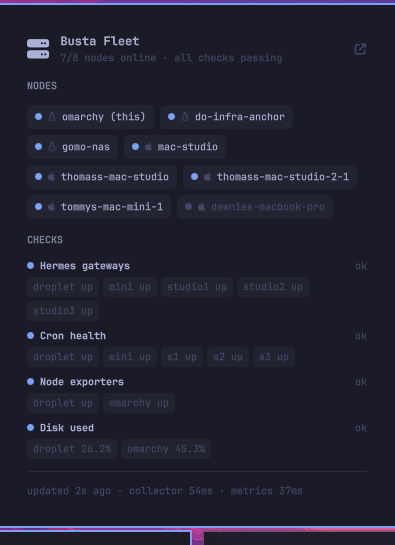
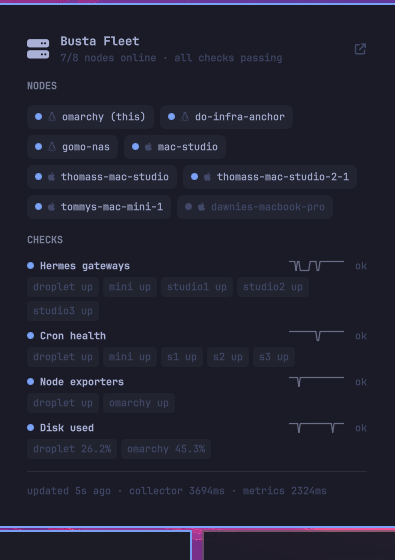
v1.1.0: sentinel notifications + sparkline trends
Severity-transition desktop notifications (flap-guarded, restart-safe,
names exact offenders — drilled live end-to-end). Per-check sparklines
from concurrent range queries, folded worst-direction across series;
history failures degrade to no sparkline, never to a failed check.
28 Python + 9 JS tests.

Claude-Session: https://claude.ai/code/session_01KHbyHbH4ua8rHthD24zcJn

diff --git a/Panel.qml b/Panel.qml
@@ -39,6 +39,7 @@ Panel {
 
   readonly property int refreshIntervalSec: intSetting("refreshIntervalSec", 60, 15, 3600)
   readonly property bool showLabel: setting("showLabel", true) === true
+  readonly property bool notifyOnChange: setting("notifyOnChange", true) === true
   readonly property bool stale: Model.isStale(report ? report.generatedAt : 0, nowMs, refreshIntervalSec)
 
   readonly property string severity: {
@@ -116,6 +117,37 @@ Panel {
     if (peer && peer.ip) Quickshell.execDetached(["wl-copy", String(peer.ip)])
   }
 
+  // ---- Sentinel: desktop notification on severity transitions ------------
+
+  // "" = no report seen yet: the first report sets the baseline silently, so
+  // a shell restart during an ongoing incident doesn't re-announce it.
+  property string lastNotifiedSeverity: ""
+  property double lastNotifyMs: 0
+
+  function maybeNotify() {
+    if (!summary) return
+    var sev = summary.severity
+    if (lastNotifiedSeverity === "") { lastNotifiedSeverity = sev; return }
+    if (sev === lastNotifiedSeverity) return
+    var previous = lastNotifiedSeverity
+    lastNotifiedSeverity = sev
+    if (!notifyOnChange) return
+    // Flap guard: state always tracks truth above, but at most one ping per
+    // five minutes — a bouncing check can't spam the desktop.
+    var now = Date.now()
+    if (now - lastNotifyMs < 300000) return
+    lastNotifyMs = now
+    var urgency = sev === "crit" ? "critical" : sev === "ok" ? "low" : "normal"
+    var headline = sev === "ok"
+      ? fleetName + ": recovered"
+      : fleetName + ": " + sev.toUpperCase()
+    var body = sev === "ok"
+      ? "all checks passing (was " + previous + ")"
+      : Model.issueSummary(report, 180)
+    Quickshell.execDetached(["omarchy-notification-send", "-u", urgency,
+                             "-g", barGlyph, headline, body])
+  }
+
   // ---- Panel plumbing (weather-pattern popout contract) -----------------
 
   function open() {
@@ -177,6 +209,7 @@ Panel {
           root.report = doc
           root.collectorError = ""
           root.nowMs = Date.now()
+          root.maybeNotify()
         } catch (e) {
           root.collectorError = "collector output unparsable"
         }
@@ -466,6 +499,7 @@ Panel {
                   }
 
                   Text {
+                    id: checkStatus
                     text: modelData.error ? modelData.error
                       : (modelData.severity === "ok" ? "ok" : modelData.severity)
                     color: root.severityColor(modelData.severity, Color.muted)
@@ -473,6 +507,67 @@ Panel {
                     font.pixelSize: Style.font.caption
                     anchors.right: parent.right
                     anchors.verticalCenter: parent.verticalCenter
+                  }
+
+                  // Worst-direction trend over the configured history span.
+                  Canvas {
+                    id: spark
+                    visible: (modelData.history || []).length >= 2
+                    width: Style.space(56)
+                    height: Style.space(12)
+                    anchors.right: checkStatus.left
+                    anchors.rightMargin: Style.space(10)
+                    anchors.verticalCenter: parent.verticalCenter
+
+                    antialiasing: true
+
+                    readonly property var trace: modelData.history || []
+                    readonly property color lineColor: root.tinted(
+                      root.severityColor(modelData.severity, Color.popups.text),
+                      modelData.severity === "ok" ? 0.55 : 0.9)
+
+                    // A Canvas that is created hidden (or before its backing
+                    // store exists) drops requestPaint silently — every
+                    // trigger that can make it drawable must re-request.
+                    onTraceChanged: requestPaint()
+                    onLineColorChanged: requestPaint()
+                    onVisibleChanged: if (visible) requestPaint()
+                    onAvailableChanged: if (available) requestPaint()
+                    onWidthChanged: requestPaint()
+                    onHeightChanged: requestPaint()
+
+                    onPaint: {
+                      var ctx = getContext("2d")
+                      ctx.clearRect(0, 0, width, height)
+                      var data = trace
+                      if (data.length < 2) return
+                      var lo = Infinity, hi = -Infinity
+                      for (var i = 0; i < data.length; i++) {
+                        if (data[i] === null) continue
+                        if (data[i] < lo) lo = data[i]
+                        if (data[i] > hi) hi = data[i]
+                      }
+                      if (lo === Infinity) return
+                      // A flat trace still draws: pad the range so the line
+                      // sits mid-height instead of dividing by zero.
+                      if (hi - lo < 1e-9) { hi += 1; lo -= 1 }
+                      var pad = 1.5
+                      ctx.strokeStyle = lineColor
+                      ctx.lineWidth = 1.2
+                      ctx.lineJoin = "round"
+                      ctx.beginPath()
+                      var started = false
+                      for (var j = 0; j < data.length; j++) {
+                        if (data[j] === null) { started = false; continue }
+                        var x = data.length === 1 ? 0
+                          : j / (data.length - 1) * (width - 1)
+                        var y = pad + (1 - (data[j] - lo) / (hi - lo))
+                          * (height - pad * 2)
+                        if (!started) { ctx.moveTo(x, y); started = true }
+                        else ctx.lineTo(x, y)
+                      }
+                      ctx.stroke()
+                    }
                   }
                 }
 

diff --git a/Model.js b/Model.js
@@ -59,6 +59,34 @@ function reportErrors(report) {
   return out;
 }
 
+// Compact description of everything currently wrong, for notifications:
+// failing check series first, then expected-but-offline nodes, then source
+// errors. Capped so a wide outage still fits a notification body.
+function issueSummary(report, maxLen) {
+  if (!report) return "";
+  var bits = [];
+  var checks = report.checks || [];
+  for (var i = 0; i < checks.length; i++) {
+    var c = checks[i];
+    if (c.severity === "ok") continue;
+    if (c.error) { bits.push(c.name + ": " + c.error); continue; }
+    var bad = [];
+    for (var j = 0; j < c.series.length; j++) {
+      if (c.series[j].severity !== "ok")
+        bad.push(c.series[j].label + " " + c.series[j].display);
+    }
+    if (bad.length > 0) bits.push(c.name + ": " + bad.join(", "));
+  }
+  var ts = report.tailscale;
+  if (ts && ts.offlineExpected && ts.offlineExpected.length > 0)
+    bits.push("offline: " + ts.offlineExpected.join(", "));
+  var errors = reportErrors(report);
+  for (var k = 0; k < errors.length; k++) bits.push(errors[k]);
+  var text = bits.join(" · ");
+  var cap = maxLen || 180;
+  return text.length > cap ? text.substring(0, cap - 1) + "…" : text;
+}
+
 function relTime(epochSeconds, nowMs) {
   if (!epochSeconds) return "never";
   var s = Math.max(0, Math.round(nowMs / 1000 - epochSeconds));

diff --git a/tests/test_collector.py b/tests/test_collector.py
@@ -208,6 +208,47 @@ class ConfigAndReportTests(unittest.TestCase):
         self.assertEqual(doc["summary"]["severity"], "unknown")
 
 
+class HistoryTests(unittest.TestCase):
+    def matrix(self, *series):
+        return [{"metric": m, "values": v} for m, v in series]
+
+    def test_max_aggregation_default(self):
+        trace = collector.aggregate_history(self.matrix(
+            ({"node": "a"}, [[100, "1"], [200, "5"]]),
+            ({"node": "b"}, [[100, "3"], [200, "2"]])), ">=", 40)
+        self.assertEqual(trace, [3.0, 5.0])
+
+    def test_min_aggregation_for_less_than(self):
+        trace = collector.aggregate_history(self.matrix(
+            ({"node": "a"}, [[100, "1"], [200, "1"]]),
+            ({"node": "b"}, [[100, "0"], [200, "1"]])), "<", 40)
+        self.assertEqual(trace, [0.0, 1.0])
+
+    def test_unaligned_timestamps_merge_sorted(self):
+        trace = collector.aggregate_history(self.matrix(
+            ({"node": "a"}, [[300, "3"]]),
+            ({"node": "b"}, [[100, "1"]])), ">=", 40)
+        self.assertEqual(trace, [1.0, 3.0])
+
+    def test_points_cap_keeps_newest(self):
+        values = [[i, str(i)] for i in range(10)]
+        trace = collector.aggregate_history(self.matrix(({}, values)), ">=", 3)
+        self.assertEqual(trace, [7.0, 8.0, 9.0])
+
+    def test_garbage_and_empty(self):
+        self.assertEqual(collector.aggregate_history(None, ">=", 10), [])
+        trace = collector.aggregate_history(self.matrix(
+            ({}, [[100, "nope"], [200, "NaN"], [300, "2"]])), ">=", 10)
+        self.assertEqual(trace, [2.0])
+
+    def test_check_shell_carries_history(self):
+        shell = collector._check_shell({"id": "x"}, "ok", None,
+                                       history=[1.0, 2.0])
+        self.assertEqual(shell["history"], [1.0, 2.0])
+        self.assertEqual(collector._check_shell({"id": "x"}, "ok",
+                                                None)["history"], [])
+
+
 class VmErrorTests(unittest.TestCase):
     def test_unreachable_vm_marks_all_checks_unknown(self):
         vm, checks = collector.collect_checks(

diff --git a/README.md b/README.md
@@ -11,8 +11,16 @@ metrics source (VictoriaMetrics, Prometheus, Thanos, Mimir, ...).
 
 The bar shows `7/8` (nodes online) and appends `!N` when anything needs
 attention. Click for the full panel: node chips with online state, OS and
-click-to-copy IPs, every check with its per-series values, and an honest
-footer with data age and collection latency.
+click-to-copy IPs, every check with its per-series values and a **sparkline
+trend** (worst-direction fold of the check's history), and an honest footer
+with data age and collection latency.
+
+**It's a sentinel, not just a dashboard**: when the fleet's overall severity
+changes, Fleetbar sends a desktop notification naming exactly what broke —
+`Busta Fleet: WARN — Disk used: omarchy 45.3%` — and one when it recovers.
+Notifications are transition-based and flap-guarded (at most one per five
+minutes), and a shell restart never re-announces an ongoing incident.
+Disable with the `notifyOnChange` setting.
 
 ## The honesty contract
 
@@ -67,6 +75,13 @@ Edits to the config apply live — the panel watches the file.
 | `format` | `number`, `percent`, `bytes`, `seconds`, `updown`. |
 | `labelKey` | Label naming each series (auto: `node` → `host` → `instance` → `job`). |
 | `unit`, `decimals` | Display suffix and precision for `number`. |
+| `history` | `false` to skip the sparkline range query for this check. |
+
+Global history tuning (optional, top-level): `"history": {"enabled": true,
+"spanSec": 10800, "points": 40}` — the sparkline is a range query over
+`spanSec`, folded across series in the check's worst direction (`min` per
+timestep for `<`/`<=` checks, `max` otherwise). History is decoration: a
+failed range query degrades to no sparkline, never to a failed check.
 
 ### Bar interactions
 
